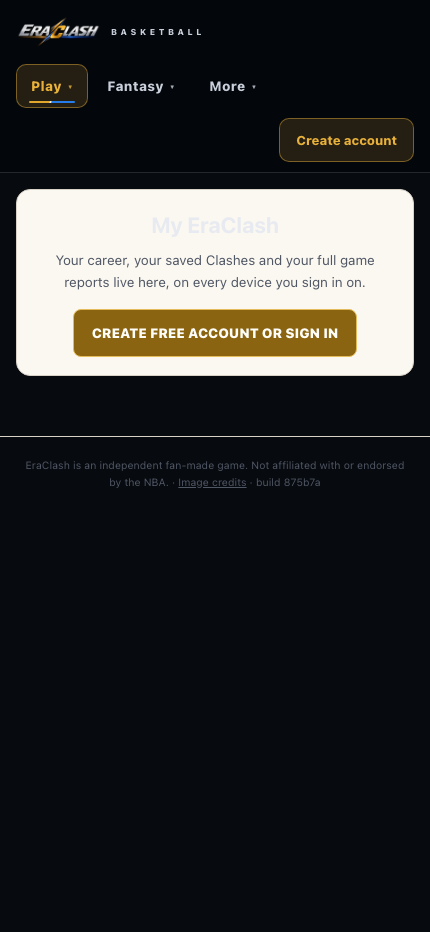
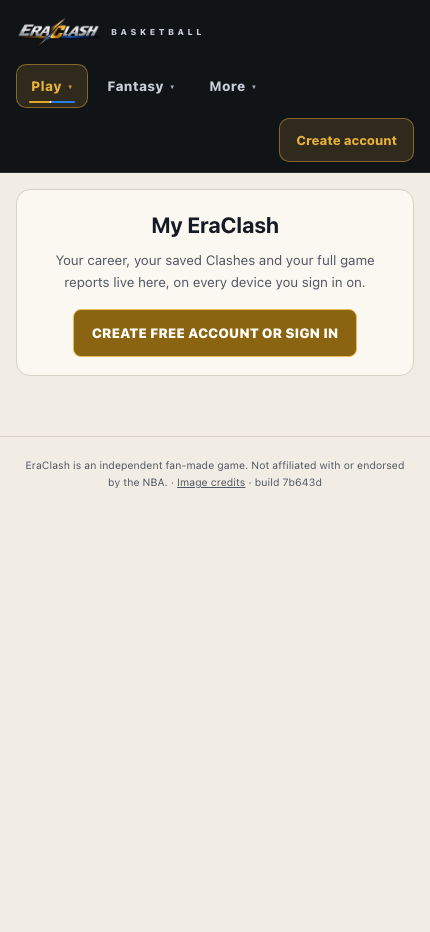
Phase 9B.1: the career page and callback are editorial reading surfaces, with a contrast gate
Found in the deployed screenshots: on /my-eraclash the h1 inherited the arena's
platinum text and sat almost invisibly on the ivory card, because the route was
in neither the arena nor the editorial shell. Both new routes are reading
surfaces and now take the editorial shell, exactly like membership, fantasy and
the mode pages. The heading measures 16.31:1, body 6.85:1 and the CTA 5.28:1.

The account QA now measures every text element on the career page against the
surface it actually sits on, so this class of defect cannot return silently.

diff --git a/src/App.jsx b/src/App.jsx
@@ -1800,7 +1800,13 @@ export default function App() {
   // surfaces. They keep the arena shell (their components read arena tokens) and
   // add the editorial shell, which remaps those tokens to Warm Court Ivory and
   // Editorial Ink under the production theme. The header stays obsidian.
-  const editorialMode = route.startsWith("/membership") || route.startsWith("/fantasy/") || route.startsWith("/modes/");
+  // Phase 9B.1: the career page and the sign-in callback are READING surfaces,
+  // exactly like membership, fantasy and the mode pages — so they take the
+  // editorial shell, which remaps the arena tokens to Warm Court Ivory and
+  // Editorial Ink. Without it a heading inherited the arena's platinum text and
+  // sat almost invisibly on an ivory card.
+  const editorialMode = route.startsWith("/membership") || route.startsWith("/fantasy/") || route.startsWith("/modes/")
+    || route === "/my-eraclash" || route === "/auth/callback";
   const arenaMode = showLobby || (isChaos && !sharedResult && !gate) || editorialMode;
 
   // ── Render ─────────────────────────────────────────────────────────────────
